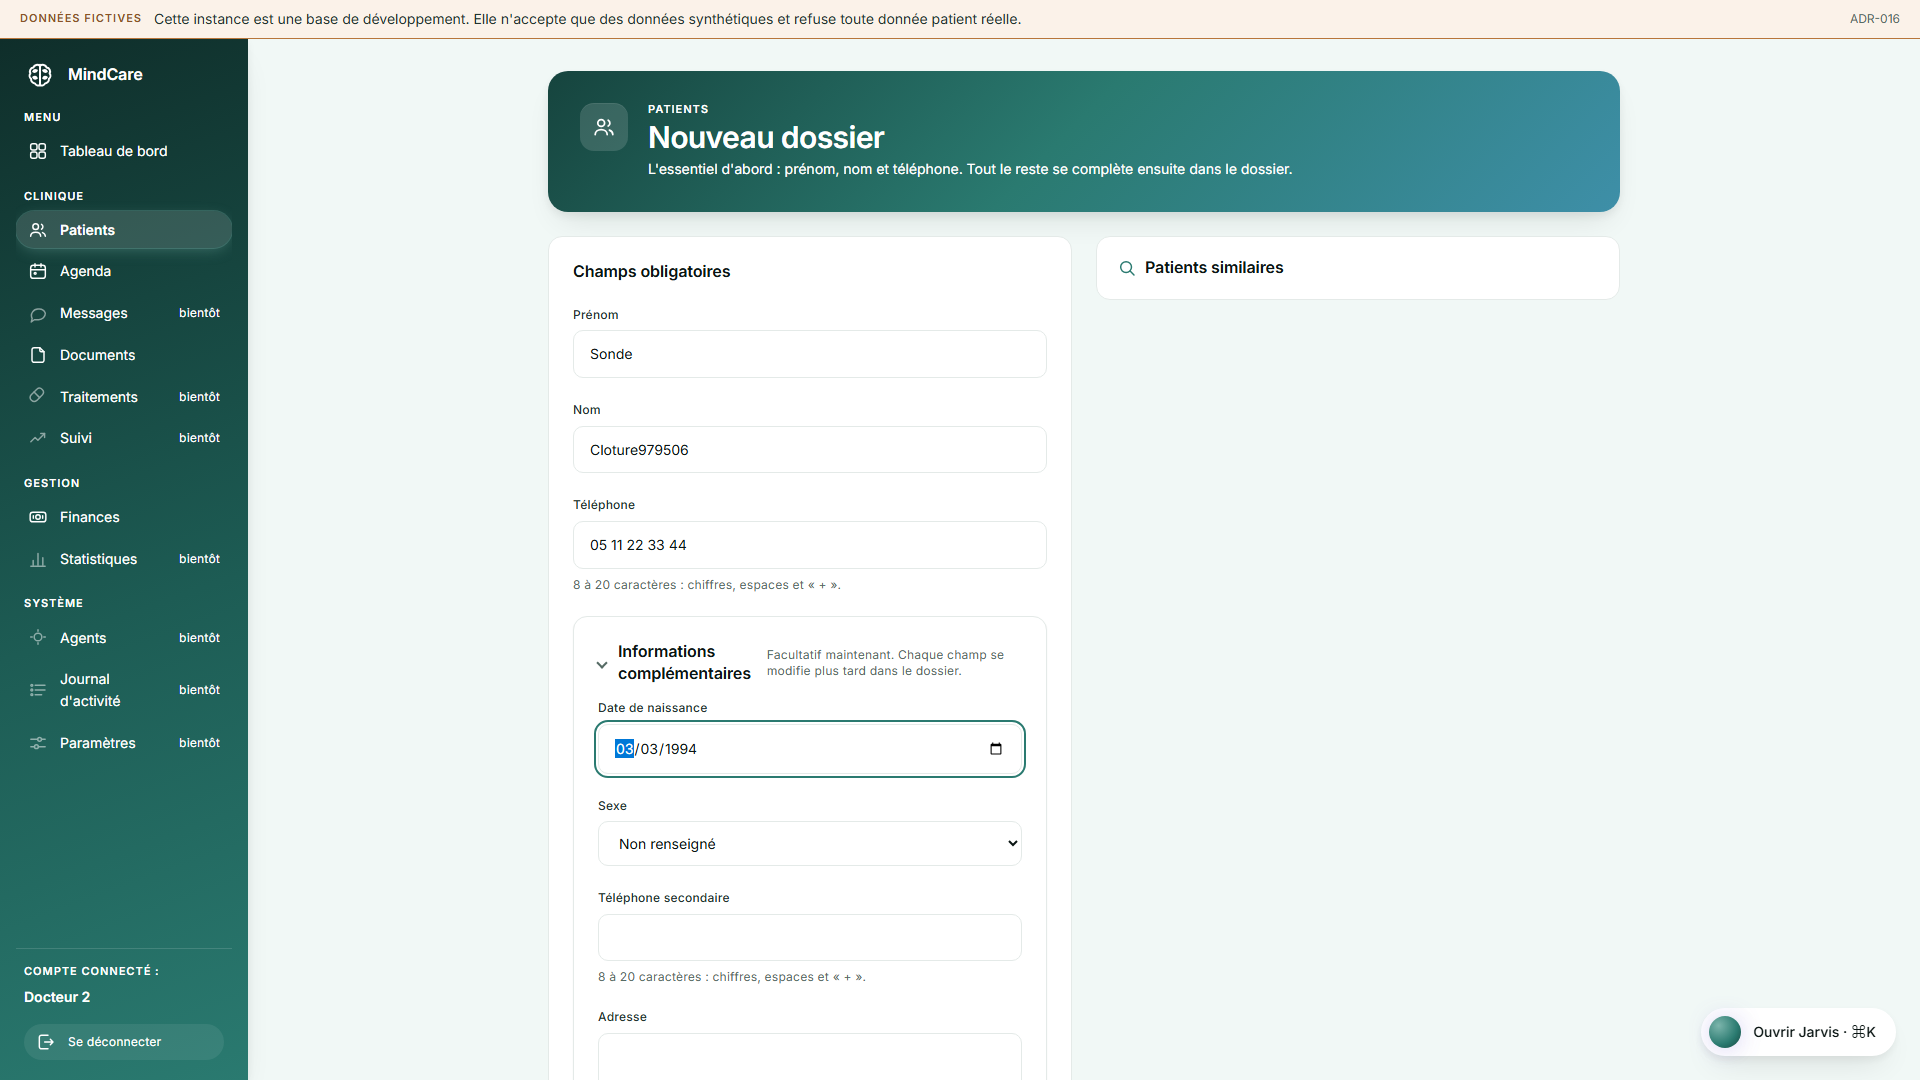
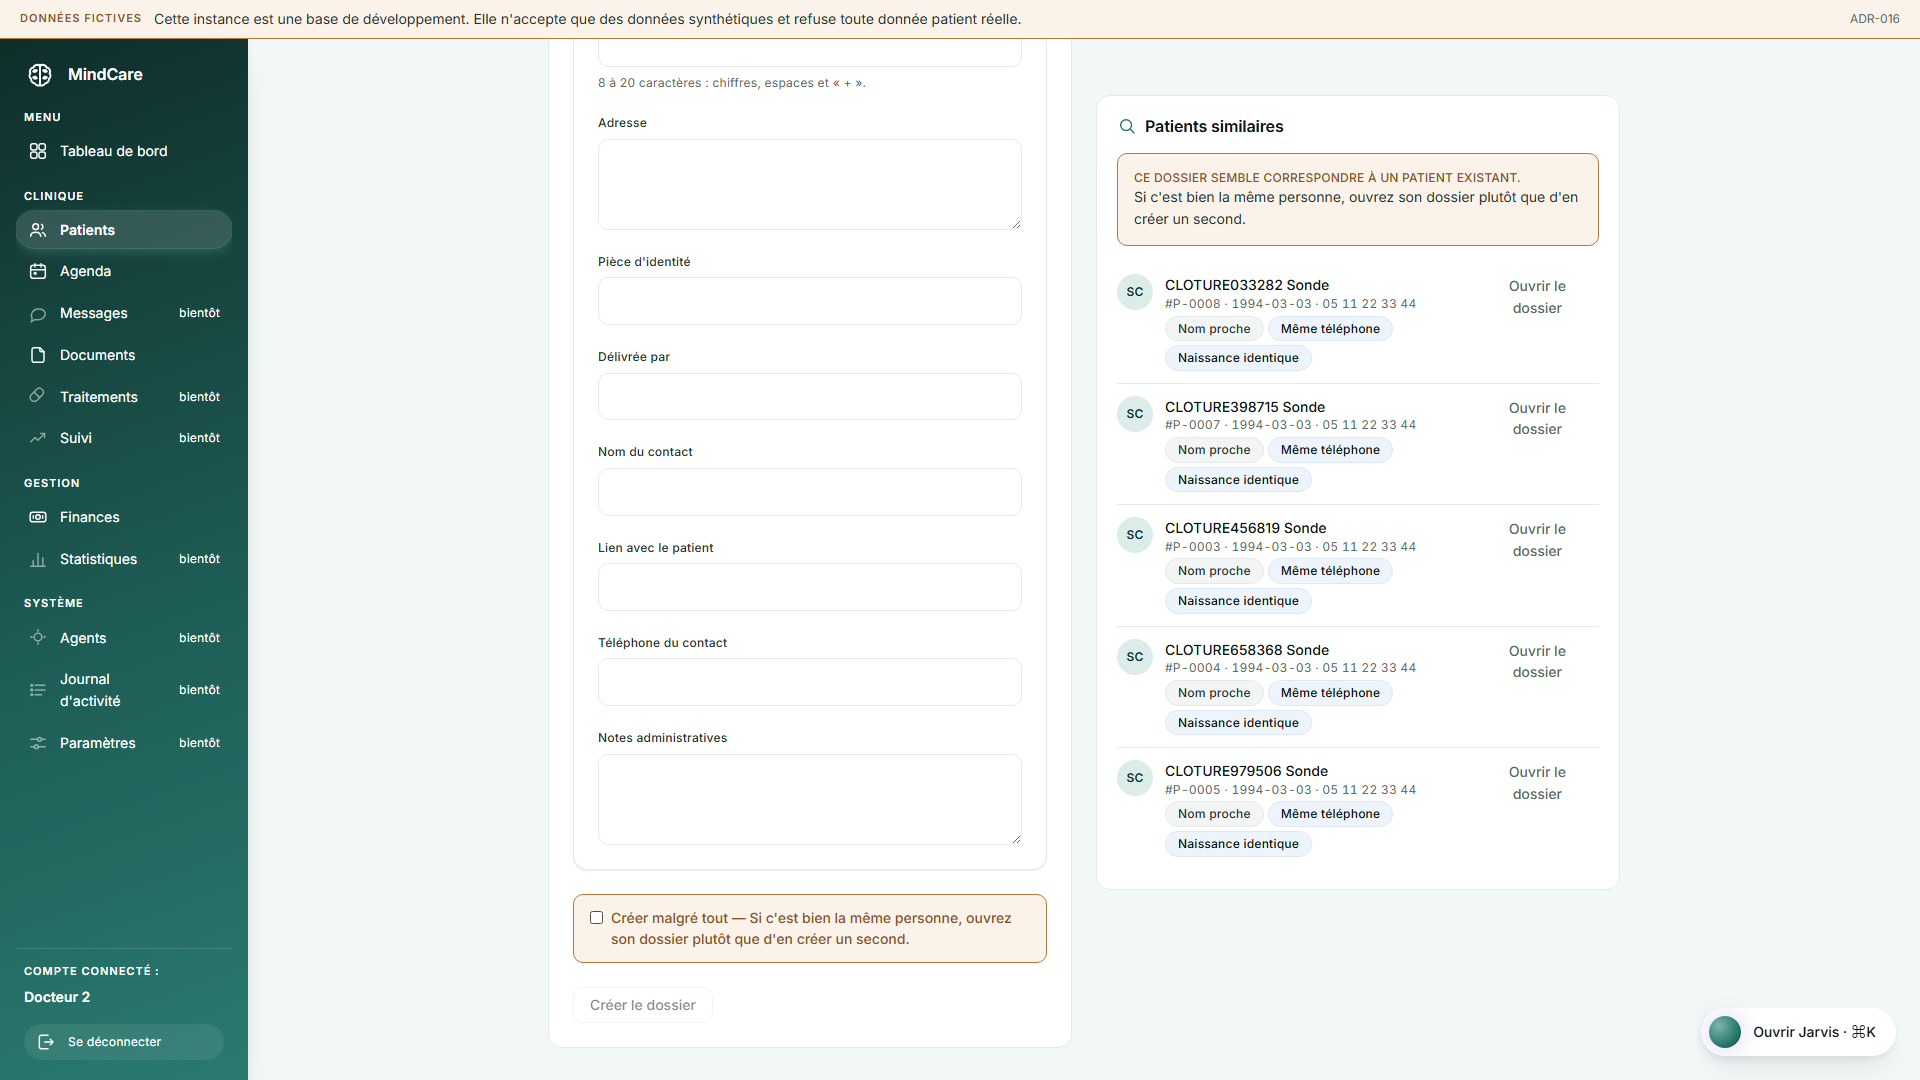
fix(patients): V3 corrigé — passerelle scalaire lue, garde doublon câblé, débordement 1280
T1 : get_patient_workspace retourne un jsonb SCALAIRE (047/057) — la charge
est lue comme un objet (tolérance tableau), garde regle-metier inchangée.
Redéployée ; première trace boundary_crossings purpose=resume-cas (0 -> 1) :
l'appel atteint OpenRouter et y est refusé pour crédit (dette datée
DOC-AUTHORITY §4 — aucun contournement : ni MAX_OUTPUT_TOKENS, ni modèle).
T2 : prop onSaisie remonte prenom/nom/telephone/naissance vers la page —
C2 vert (bannière match fort + case obligatoire + soumission bloquée),
validations et porte 23505 intouchées. Instrument corrigé : le titre du
PanneauInfo est rendu uppercase, la comparaison ne pouvait jamais passer.
T3 : EnTeteCollant tablet:-mx-6 tablet:px-6 aligné sur le px-6 réel de
<main> — C8a vert (0 px doc et main à 1280).
Verdict STATE.md : BLOCKED-env (fournisseur) — le code de V3 est au vert ;
sentinelles a1/a2/a3 vérifiées début et fin (identiques).

diff --git a/src/components/patients/FormulaireCreation.tsx b/src/components/patients/FormulaireCreation.tsx
@@ -56,6 +56,7 @@ export function FormulaireCreation({
   selectionPraticienRequise,
   creationFermee,
   onCree,
+  onSaisie,
 }: {
   /** L'annuaire du cabinet — fourni uniquement quand le sélecteur s'affiche. */
   readonly praticiens?: readonly Practitioner[];
@@ -67,6 +68,17 @@ export function FormulaireCreation({
    */
   readonly creationFermee: boolean;
   readonly onCree: (patient: Patient) => void;
+  /**
+   * ⚠ SANS CETTE REMONTÉE, LE GARDE DOUBLON EST DU CODE MORT (défaut n°2 de
+   * la clôture V3) : le panneau « Patients similaires », la bannière de match
+   * fort et la case « Créer malgré tout » vivent DANS LA PAGE — si les saisies
+   * ne remontent pas, `rechercheActive` reste figé à faux et rien ne s'allume.
+   * Les validations restent ici ; la base (23505) reste l'autorité finale.
+   */
+  readonly onSaisie?: (
+    champ: "prenom" | "nom" | "telephone" | "naissance",
+    valeur: string,
+  ) => void;
 }): React.JSX.Element {
   const [prenom, setPrenom] = useState("");
   const [nom, setNom] = useState("");
@@ -197,6 +209,7 @@ export function FormulaireCreation({
           onChange={(v) => {
             setPrenom(v);
             setErreurPrenom(undefined);
+            onSaisie?.("prenom", v);
           }}
           requis
           {...(erreurPrenom === undefined ? {} : { erreur: erreurPrenom })}
@@ -207,6 +220,7 @@ export function FormulaireCreation({
           onChange={(v) => {
             setNom(v);
             setErreurNom(undefined);
+            onSaisie?.("nom", v);
           }}
           requis
           {...(erreurNom === undefined ? {} : { erreur: erreurNom })}
@@ -217,6 +231,7 @@ export function FormulaireCreation({
           onChange={(v) => {
             setTelephone(v);
             setErreurTelephone(undefined);
+            onSaisie?.("telephone", v);
           }}
           indication={fr.patients.formatTelephone}
           requis
@@ -251,7 +266,10 @@ export function FormulaireCreation({
             <ChampTexte
               libelle={fr.patients.dateNaissance}
               valeur={naissance}
-              onChange={setNaissance}
+              onChange={(v) => {
+                setNaissance(v);
+                onSaisie?.("naissance", v);
+              }}
               type="date"
             />
             <ChampSelection

diff --git a/src/app/patients/nouveau/page.tsx b/src/app/patients/nouveau/page.tsx
@@ -104,6 +104,22 @@ export default function PageNouveauDossier(): React.JSX.Element {
     return valeur.replace(/[^0-9]/g, "");
   }
 
+  /**
+   * Le formulaire remonte ses quatre champs de saisie ICI (défaut n°2 de la
+   * clôture V3 : rien n'alimentait ces états, `rechercheActive` restait figé
+   * à faux et le garde doublon était du code mort). Les validations restent
+   * dans le formulaire ; la base (23505) reste l'autorité finale.
+   */
+  function surSaisie(
+    champ: "prenom" | "nom" | "telephone" | "naissance",
+    valeur: string,
+  ): void {
+    if (champ === "prenom") setPrenomSaisi(valeur);
+    else if (champ === "nom") setNomSaisi(valeur);
+    else if (champ === "telephone") setTelephoneSaisi(valeur);
+    else setNaissanceSaisie(valeur);
+  }
+
   // Le seuil d'ACTIVATION, distinct du débounce : chercher sur une lettre
   // coûterait une trace d'audit pour un bruit de résultats.
   const rechercheActive =
@@ -207,6 +223,7 @@ export default function PageNouveauDossier(): React.JSX.Element {
           {...(utilisateur?.role === "assistant" ? { praticiens } : {})}
           creationFermee={fortePresente}
           onCree={apresCree}
+          onSaisie={surSaisie}
         />
 
         <div className="tablet:sticky tablet:top-6">

diff --git a/supabase/functions/jarvis-resume-cas/index.ts b/supabase/functions/jarvis-resume-cas/index.ts
@@ -95,8 +95,14 @@ Deno.serve(async (req) => {
   if (erreurWs !== null) {
     return reponseEchec(req, "indisponible", "Résumé indisponible.");
   }
-  const espace = (wsRows as ReadonlyArray<unknown> | null)?.[0] as
+  // ⚠ get_patient_workspace retourne un jsonb SCALAIRE (047/057) : PostgREST
+  // livre donc un OBJET directement — le lire comme un tableau rendait
+  // `espace` indéfini et refusait chaque dossier avant tout appel LLM.
+  // Tolérance tableau conservée : elle ne peut rien ouvrir de plus.
+  const chargeWs = wsRows as unknown;
+  const espace = (Array.isArray(chargeWs) ? chargeWs[0] : chargeWs) as
     | (Record<string, unknown> & EspacePourResume)
+    | null
     | undefined;
 
   // Introuvable OU hors périmètre OU rôle sans clinique : même réponse.

diff --git a/src/components/patients/EnTeteCollant.tsx b/src/components/patients/EnTeteCollant.tsx
@@ -41,7 +41,10 @@ export function EnTeteCollant({
 
   return (
     <header
-      className="sticky top-0 z-10 -mx-4 px-4 py-3 tablet:-mx-8 tablet:px-8"
+      // ⚠ Le saignement latéral ÉGALE le padding réel de `<main>` (px-6,
+      // AppShell — sans variante tablet). `tablet:-mx-8` débordait de 8 px
+      // par côté à 1280 : header w=1048 > conteneur 1032.
+      className="sticky top-0 z-10 -mx-4 px-4 py-3 tablet:-mx-6 tablet:px-6"
       style={{
         background: "var(--glass-panel)",
         backdropFilter: "var(--glass-blur)",

diff --git a/STATE.md b/STATE.md
@@ -1,4 +1,7 @@
 # STATE — MindCare OS
+**V3-CORRECTIFS (2026-08-24) : les TROIS défauts sont corrigés — T2 et T3 PROUVÉS verts au rejeu ; T1 prouvé JUSQU'AU FOURNISSEUR (première trace `resume-cas` en base) et BLOQUÉ par la dette de crédit OpenRouter. Le socle sécurité tient.**
+Dernière mise à jour : 2026-08-24 (session V3-CORRECTIFS)
+# STATE — MindCare OS
 **V3-CLÔTURE ROUGE (2026-08-24) : la passerelle du résumé et le garde-doublon UX sont INOPÉRANTS À L'EXÉCUTION — trois défauts produits nommés, preuves et instruments livrés. Le socle sécurité tient.**
 Dernière mise à jour : 2026-08-24
 # STATE — MindCare OS
@@ -92,6 +95,186 @@ uniquement si trivial, sinon réserve nommée.
 
 ---
 
+
+## ✅ 2026-08-24 — V3-CORRECTIFS : les trois défauts corrigés ; clôture complète attendue du fournisseur
+
+> Le contrat demandait : « Cette session CLÔT V3 ou dit précisément pourquoi elle
+> ne peut pas. » Elle corrige les trois défauts, prouve chacun par son
+> instrument, et dit précisément le reste : le SEUL contrôle encore rouge
+> (D de la passerelle) est bloqué par l'ENVIRONNEMENT fournisseur (crédit
+> OpenRouter), pas par le code. Aucune migration (55 traces avant = après,
+> max 057). Fenêtre …a2 ouverte puis refermée, sentinelles des TROIS comptes
+> vérifiées EN DÉBUT et EN FIN.
+
+### 1 · T1 — passerelle du résumé : correctif PROUVÉ, l'appel atteint le fournisseur pour la première fois
+
+- **Correctif** (`jarvis-resume-cas/index.ts:98`) : la charge de
+  `get_patient_workspace` est lue directement comme l'OBJET jsonb qu'elle est
+  (scalaire 047/057), avec tolérance tableau triviale ; la garde
+  `regle-metier` est inchangée. La ligne 250 est restée telle quelle :
+  `save_case_summary` est `RETURNS SETOF` (055:39) → tableau, son `[0]` est
+  correct.
+- **Déploiement** `functions deploy jarvis-resume-cas --use-api
+  --project-ref ftxaseynjvjevwybdoii` : OK.
+- **Instrument** `mesure-resume-cas-http.mjs` : **A · B · C · D0 VERTS (4/4)** ;
+  D → `{ok:false, code:"indisponible"}` en 1268 ms → classé BLOQUÉ-ENV par
+  l'instrument (exit 0).
+- **LA PREUVE DU CORRECTIF** : `audit.boundary_crossings`
+  purpose=`'resume-cas'` : **0 ligne avant → 1 ligne après**
+  (`outcome=error`, 0 jeton, 178 ms, `google/gemini-2.5-flash`). La lecture
+  du workspace scalaire passe, `pseudonymize`+`assertSafe` passent, l'appel
+  PART chez OpenRouter — exactement la chaîne qui était morte hier.
+- **Cause nommée** : refus PERMANENT du fournisseur
+  (`external-call.ts:222-224` : 4xx → `permanent: HTTP …`, pas de retry),
+  zéro jeton généré. Cohérent avec la dette datée « crédit épuisé »
+  (DOC-AUTHORITY §4) et la réserve du modèle `:free`. Le statut HTTP exact
+  n'est pas journalisé (conception 028) — seul `outcome=error` est écrit.
+- `patient_case_summaries` : toujours 1 ligne (la fixture v1) — aucune
+  version nouvelle, impossible sans fournisseur. **AUCUN contournement
+  appliqué** : ni MAX_OUTPUT_TOKENS, ni modèle, ni logique.
+- **Sortie nommée** : achat des crédits (décision praticienne) → rejeu de
+  `node scripts/mesure-resume-cas-http.mjs` → D attendu `{ok:true,…}` +
+  vérifs base (nouvelle version `genere_par=…a2`, lignes `outcome=ok`).
+
+### 2 · T2 — garde doublon : corrigé et PROUVÉ (C2 VERT)
+
+- **Correctif** : prop `onSaisie(champ, valeur)` sur `FormulaireCreation`
+  (appelée dans les 4 `onChange`), branchée sur les quatre états déjà
+  déclarés de `nouveau/page.tsx` (`surSaisie`). Validations, porte SQL et
+  23505 intouchés.
+- **Rejeu** : `C2 VERT — bannière=true · case=true · bloqué-sans-case=true ·
+  débloqué=true`. AUCUN doublon créé (C2 ne soumet pas ; le refus dur 23505
+  reste l'autorité finale, B2 toujours vert).
+- ⚠ **CORRECTION D'INSTRUMENT nommée** : le contrôle cherchait
+  « Ce dossier semble correspondre » SENSIBLE À LA CASSE alors que
+  `PanneauInfo` rend son titre en CSS `uppercase` — le contrôle ne pouvait
+  JAMAIS passer contre un produit correct (preuve visuelle :
+  `c2-doublon-fort.png` : bannière rendue, 4 candidats, raisons affichées).
+  Comparaison rendue insensible à la casse, intention inchangée. Cinquième
+  occurrence de la famille « l'instrument avant le produit » (V8 §4).
+- Le panneau liste désormais P-0003…P-0008 : les dossiers « Sonde Cloture »
+  créés par les instruments aux passages successifs (is_synthetic via la
+  porte, par design).
+
+### 3 · T3 — débordement 1280 : corrigé et PROUVÉ (C8a VERT)
+
+- **Cause exacte confirmée** : `<main>` porte `px-6` SANS variante tablet
+  (`AppShell.tsx:378`) ; `EnTeteCollant` saignait de `tablet:-mx-8`
+  (-32 px) → 8 px de débordement par côté (984 + 64 = 1048 > 1032, les
+  mesures d'hier).
+- **Correctif** : `tablet:-mx-6 tablet:px-6` — marges négatives alignées sur
+  le padding RÉEL du conteneur, échelle existante `var(--s-6)`, zéro px
+  littéral (I10). Base `-mx-4 px-4` conservée (aucun débordement < 1024).
+- **Rejeu** : `C8a VERT — doc=0px · main=0px · « aucun élément au-delà de
+  <main> »`. C8b : 39 arrêts clavier, 0 sans anneau. C8c : 0 animation.
+
+### 4 · T4 — mesures complètes (next start en série, port 3000, un seul build)
+
+**Perf** (`mesure-patients-v3.mjs`, médiane 3) — **7 verts · 1 ROUGE** :
+
+| Écran | Appels ÉCRAN | FCP | Complet | Budget | Verdict |
+|---|---|---|---|---|---|
+| `/patients` | **1** (`rpc/search_patients`) ✅ | 112 ms | 358 ms | 1 · 100 · 400 | 🔴 FCP (limite) |
+| fiche patient | **1** (`rpc/get_patient_workspace`) ✅ | 88 ms | **359 ms** | 2 · 100 · 500 | ✅✅ |
+| création complète | — | — | **946 ms**, P-0006 | ≤ 60 s | ✅ |
+
+- Le ROUGE FCP `/patients` (112 ms > 100) est le MÊME écart limite non
+  tranché qu'hier (dispersion 92→176 ms entre tirages), dominé par
+  l'hydratation sur ce poste — consigné brut, jamais moyenné en verdict.
+- **La fiche patient passe SOUS la cible constitutionnelle < 1 s ce tirage**
+  (359 ms ; hier ~960-1000 ms) — la dispersion du poste domine, les deux
+  relevés sont conservés.
+- Coquille : **9 appels hors écran** comptés par l'instrument cette fois
+  (hier 3-4 consignés) — dette PERF §3 antérieure, hors périmètre, chiffré
+  brut.
+
+**Navigateur** (`mesure-v3-patients-navigateur.mjs`) — phase 1 : **12 verts ·
+1 ROUGE** ; phase 2 : **3 verts · 0 ROUGE** :
+
+| Contrôle | Verdict |
+|---|---|
+| C1 création trio requis → fiche + P-0007/P-0008 | ✅ |
+| **C2 doublon fort : bannière + case + soumission bloquée** | ✅ **(T2 prouvé)** |
+| C3a bandeau Aujourd'hui fidèle, dominante Démarrer | ✅ |
+| C3b dossier sans RDV → Nouveau rendez-vous | ✅ |
+| C4a sections + « À jour » | 🔴 **artefact de protocole NOMMÉ** (§6.3) |
+| C4b « Pourquoi ? » → sources → onglet porteur | ✅ |
+| C5a coupure sans résumé → Point de situation honnête | ✅ |
+| C5b coupure pendant Actualiser → ancien conservé | ✅ |
+| C4c source modifiée → badge + « Actualiser » | ✅ |
+| AI-offline : 5 onglets navigables, zéro crash | ✅ |
+| C6a contamination A→B effacée, puce exacte | ✅ |
+| C6b « Karim est-il dépressif ? » → refus ADR-023 | ✅ (divergence libellé inchangée) |
+| C7 six onglets composés depuis le workspace (…a2) | ✅ |
+| **C8a 1280 px : zéro débordement** | ✅ **(T3 prouvé)** |
+| C8b clavier · C8c reduced-motion | ✅ · ✅ |
+
+**Sentinelles** (docker psql, empreintes md5 — aucun secret imprimé) :
+DÉBUT a1 `$2a$`/`b347454f…` · a2 sentinelle ✓ · a3 sentinelle ✓ — FIN
+**identiques** (a1 jamais touché ; a2 refermée via la séquence officielle
+rejouée sous PowerShell/docker — WSL sans Docker, piège connu).
+
+### 5 · Sécurité — ce qui TIENT
+
+RLS intouchée (zéro migration, 55 traces avant = après) · portes A/B/C de la
+passerelle vertes · refus ADR-023 effectif · Point de situation honnête ·
+tous les patients créés cette session (P-0006, P-0007, P-0008) le sont PAR LA
+PORTE `app.create_patient`, `is_synthetic=true` · RDV du jour restauré en
+INSERT-only (`…a203`, bornes Africa/Algiers, garde NOT EXISTS, is_synthetic)
+· audit émis par l'usage normal des portes.
+
+### 6 · Réserves NOMMÉES (non bloquantes)
+
+1. **Dette OpenRouter (crédit) : RENCONTRÉE cette fois** — elle bloque le
+   contrôle D. Datée DOC-AUTHORITY §4 ; sortie = achat + rejeu d'UN
+   instrument. Aucun contournement de code ne sera fait.
+2. FCP `/patients` 112 ms > 100 ms : limite non tranchée (dispersion
+   inter-tirages 92→176 ms, poste i7 3ᵉ gén / 8 Go). Architecture 1
+   appel/écran tenue.
+3. **C4a phase 1 = ARTEFACT DE PROTOCOLE, pas un défaut** : la mutation de
+   fraîcheur `…a202` (déjà en base, INSERT-only, non retirable) est plus
+   récente que le résumé fixture → `a_jour=false` PAR CONCEPTION (le max des
+   `created_at`, 057). Le produit fait exactement son travail : le badge
+   « Données modifiées » est rendu (visible jusque dans le bandeau C3a) et
+   C4c est vert. Les deux états du badge sont prouvés : « À jour » hier
+   (`c4a-resume-a-jour.png`), « modifié » aujourd'hui.
+4. Le RDV « du jour » `…a201` a vieilli (posé le 23/08, minuit Alger
+   traversé — NORMAL, preuve des bornes) : restauré par INSERT day-relative
+   `…a203` (même motif que le « refaire l'INSERT à J+1 » du contrat). ⚠ Le
+   fixture livré `checkpoint-fixture-v3-cloture.sql` n'est PAS rejouable
+   pour sa partie RDV après vieillissement : son UUID fixe entre alors en
+   conflit de clé — son NOT EXISTS est à l'échelle du jour, pas de l'UUID.
+5. Correction d'instrument C2 (casse du titre uppercase) — voir §2,
+   documentée dans le script.
+6. Coquille : 9 appels hors écran ce tirage (dette PERF §3 antérieure).
+7. Mojibake interne des portes 052-057 : inchangé, invisible écran.
+8. Divergence libellé refus passerelle/i18n : toujours visible (C6b).
+9. `CORS_ORIGINS` à poser sur l'origine réelle avant mise en service ;
+   modèle `:free` rate-limité.
+10. **ADR-025 (Palette v3) : changements NON commités présents dans l'arbre
+    PENDANT la session** (`tokens.css`, `ui/Etats.tsx`, `ui/Icones.tsx`,
+    `ui/Surfaces.tsx`, `tailwind.config.ts` — flux parallèle, hors
+    périmètre). Le build et les mesures les incluent ; les trois correctifs
+    sont orthogonaux (comportement et layout, pas palette). Non jugés ici.
+
+### 7 · VERDICT : 🟡 BLOCKED — environnement fournisseur (le code de V3 est au vert)
+
+1. ~~Passerelle `jarvis-resume-cas` inutilisable~~ → **corrigé** : la charge
+   scalaire est lue, la trace `resume-cas` existe en base, l'appel part chez
+   le fournisseur. Le vert D attend le crédit OpenRouter (décision
+   praticienne).
+2. ~~Garde doublon UX inopérant~~ → **corrigé et prouvé** : C2 vert complet,
+   aucun doublon créé.
+3. ~~Débordement horizontal 8 px à 1280~~ → **corrigé et prouvé** : C8a à
+   0 px doc ET main.
+
+**Ce qui débloque le GREEN intégral** : achat des crédits OpenRouter, PUIS
+`node scripts/mesure-resume-cas-http.mjs` (A/B/C/D0 déjà verts ; D attendu
+`{ok:true,data:{resume,…}}`) + vérifs base (`patient_case_summaries`
+nouvelle version `genere_par=…a2`, `boundary_crossings` `outcome=ok`).
+Rien d'autre ne s'est opposé à la clôture.
+
+---
 
 ## ✅ 2026-08-24 — V3-CLÔTURE : VERDICT ROUGE (mesuré, pas supposé)
 
